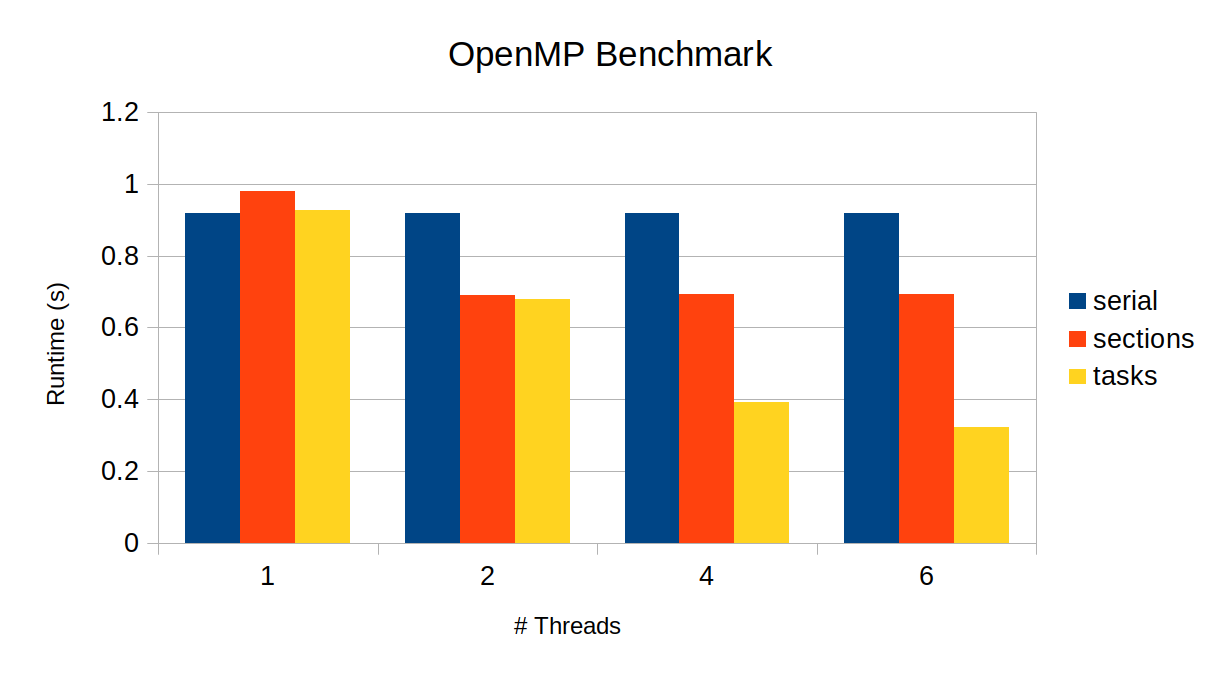
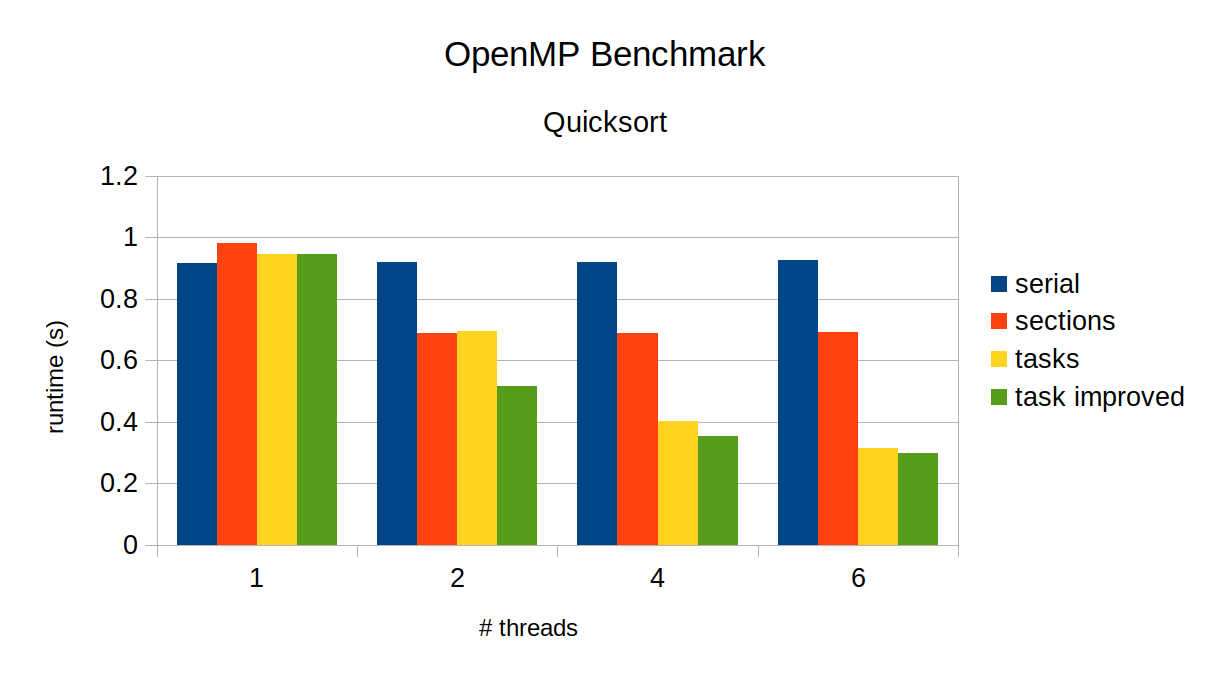
add task improved

diff --git a/quicksort.cc b/quicksort.cc
@@ -72,10 +72,10 @@ void quicksort_par_tasks_helper(It const first, It const last) {
 #pragma omp task default(none) shared(mid, last)
   quicksort_par_tasks_helper(mid + 1, last);
 
-  // this is absolute necessity!!!
-  // without it, this function returns
-  // before the recursive calls complete,
-  // invalidating the stack
+// this is absolute necessity!!!
+// without it, this function returns
+// before the recursive calls complete,
+// invalidating the stack
 #pragma omp taskwait
 }
 
@@ -89,11 +89,34 @@ template <typename It> void quicksort_par_tasks(It first, It last) {
   }
 }
 
+template <typename It>
+void quicksort_par_tasks2_helper(It const first, It const last) {
+  auto distance = std::distance(first, last);
+  if (distance < DISTANCE_THRESHOLD)
+    return quicksort_serial(first, last);
+  auto mid = partition(first, last);
+
+#pragma omp task default(none) firstprivate(first, mid)
+  quicksort_par_tasks_helper(first, mid);
+#pragma omp task default(none) firstprivate(mid, last)
+  quicksort_par_tasks_helper(mid + 1, last);
+}
+
+template <typename It> void quicksort_par_tasks2(It first, It last) {
+#pragma omp parallel default(none) shared(first, last)
+  {
+    // we are in the omp parallel region
+    // we want only one thread to be assinged for each task
+#pragma omp single nowait
+    quicksort_par_tasks2_helper(first, last);
+  }
+}
+
 int main(int argc, const char **argv) {
   using namespace std::string_literals;
 
   if (argc != 3) {
-    std::cerr << "Usage: " << argv[0] << " N {ser,sec,task}\n";
+    std::cerr << "Usage: " << argv[0] << " N {ser,sec,task,task2}\n";
     return EXIT_FAILURE;
   }
 
@@ -101,10 +124,11 @@ int main(int argc, const char **argv) {
   auto array = get_random_numbers(n);
 
   auto quicksort = [argv](auto first, auto last) {
-    return "ser"s == argv[2]   ? quicksort_serial(first, last)
-           : "sec"s == argv[2] ? quicksort_par_sections(first, last)
-           : "task"s == argv[2]
-               ? quicksort_par_tasks(first, last)
+    return "ser"s == argv[2]    ? quicksort_serial(first, last)
+           : "sec"s == argv[2]  ? quicksort_par_sections(first, last)
+           : "task"s == argv[2] ? quicksort_par_tasks(first, last)
+           : "task2"s == argv[2]
+               ? quicksort_par_tasks2(first, last)
                : throw std::runtime_error("must be one of '{ser, sec, task}");
   };
 

diff --git a/README.md b/README.md
@@ -8,6 +8,7 @@ $ make -j -Cbuild
 $ OMP_NUM_THREADS=4 build/quicksort 10000000 ser # serial
 $ OMP_NUM_THREADS=4 build/quicksort 10000000 sec # section
 $ OMP_NUM_THREADS=4 build/quicksort 10000000 task # task
+$ OMP_NUM_THREADS=4 build/quicksort 10000000 task2 # task improved
 ```
 
 ## Result
